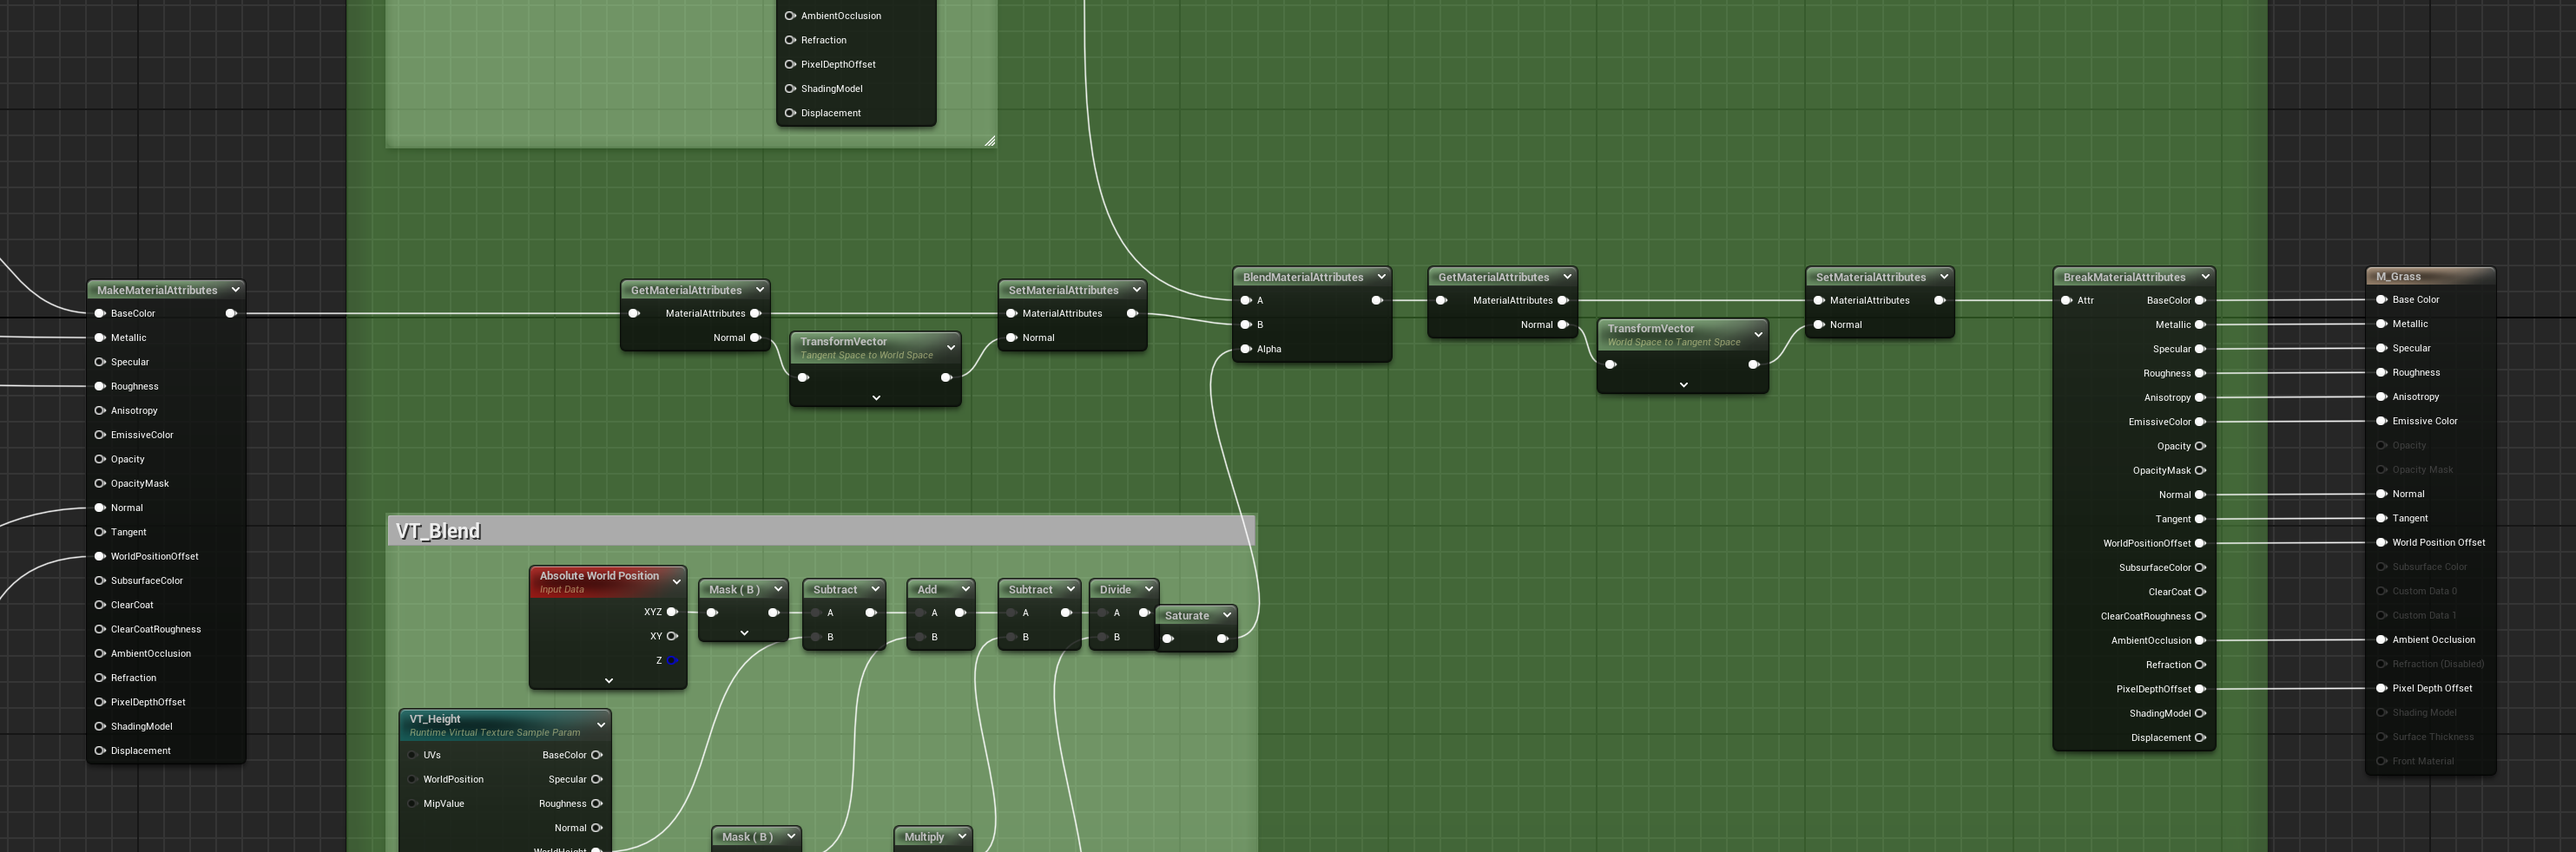
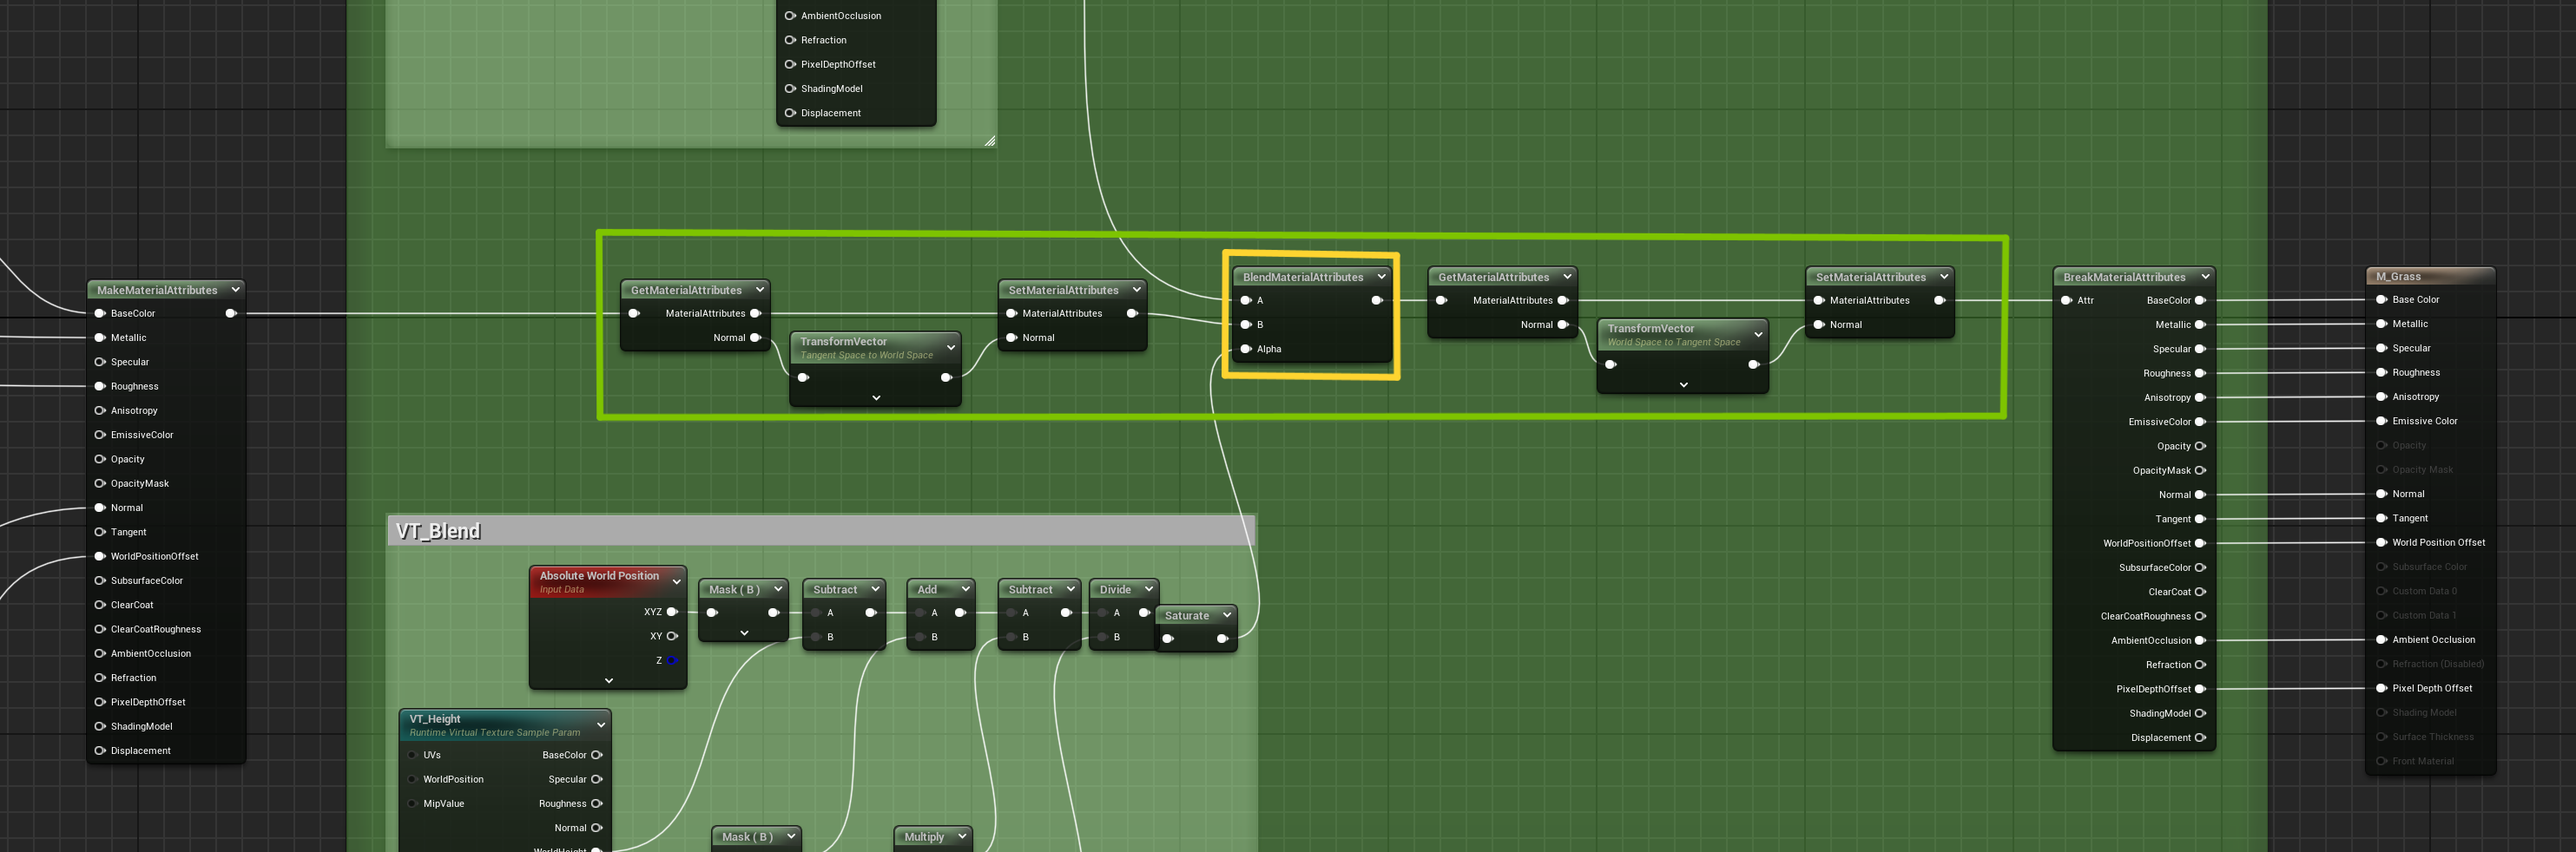
Grass paragraph

Changed region(s): [[0.2481, 0.3666, 0.7752, 0.5193], [0.2171, 0.2444, 0.8062, 0.3055], [0.2171, 0.4582, 0.2481, 0.4888]]

diff --git a/_posts/2024-02-16-UnrealStylizedShaders.md b/_posts/2024-02-16-UnrealStylizedShaders.md
@@ -202,12 +202,17 @@ To have and interactive grass effect I started by creating a material with all t
 
 ![]({{ site.baseurl }}/assets/images/ueshaderwork/M_Grass.PNG "Grass material wind"){: width="100%"}
 
-
+The specificity of this material is its transformation from `Tangent Space` to `World Space` and back again, integrating the terrain blending between.
 
 ![]({{ site.baseurl }}/assets/images/ueshaderwork/VT_MatGeneral.PNG "Grass material general overview"){: width="100%"}
 
+For the blending, the material takes the `Virtual Texture`'s parameters and will blend them according to the `VirtualBlendHeight` and `VirtualFalloff` parameters.
+
 ![]({{ site.baseurl }}/assets/images/ueshaderwork/VT_Mat.PNG "Grass material texture blend"){: width="100%"} | ![]({{ site.baseurl }}/assets/images/ueshaderwork/VT_MatBlend.PNG "Grass material height blend"){: width="100%"}
 
+The last part of the material is just breaking every material attribute and re-assigning them to the master node.
+
+![]({{ site.baseurl }}/assets/images/ueshaderwork/VT_MatGeneral2.PNG "Grass material break and assign"){: width="50%"}
 
 #### Setup, integration and use
 
